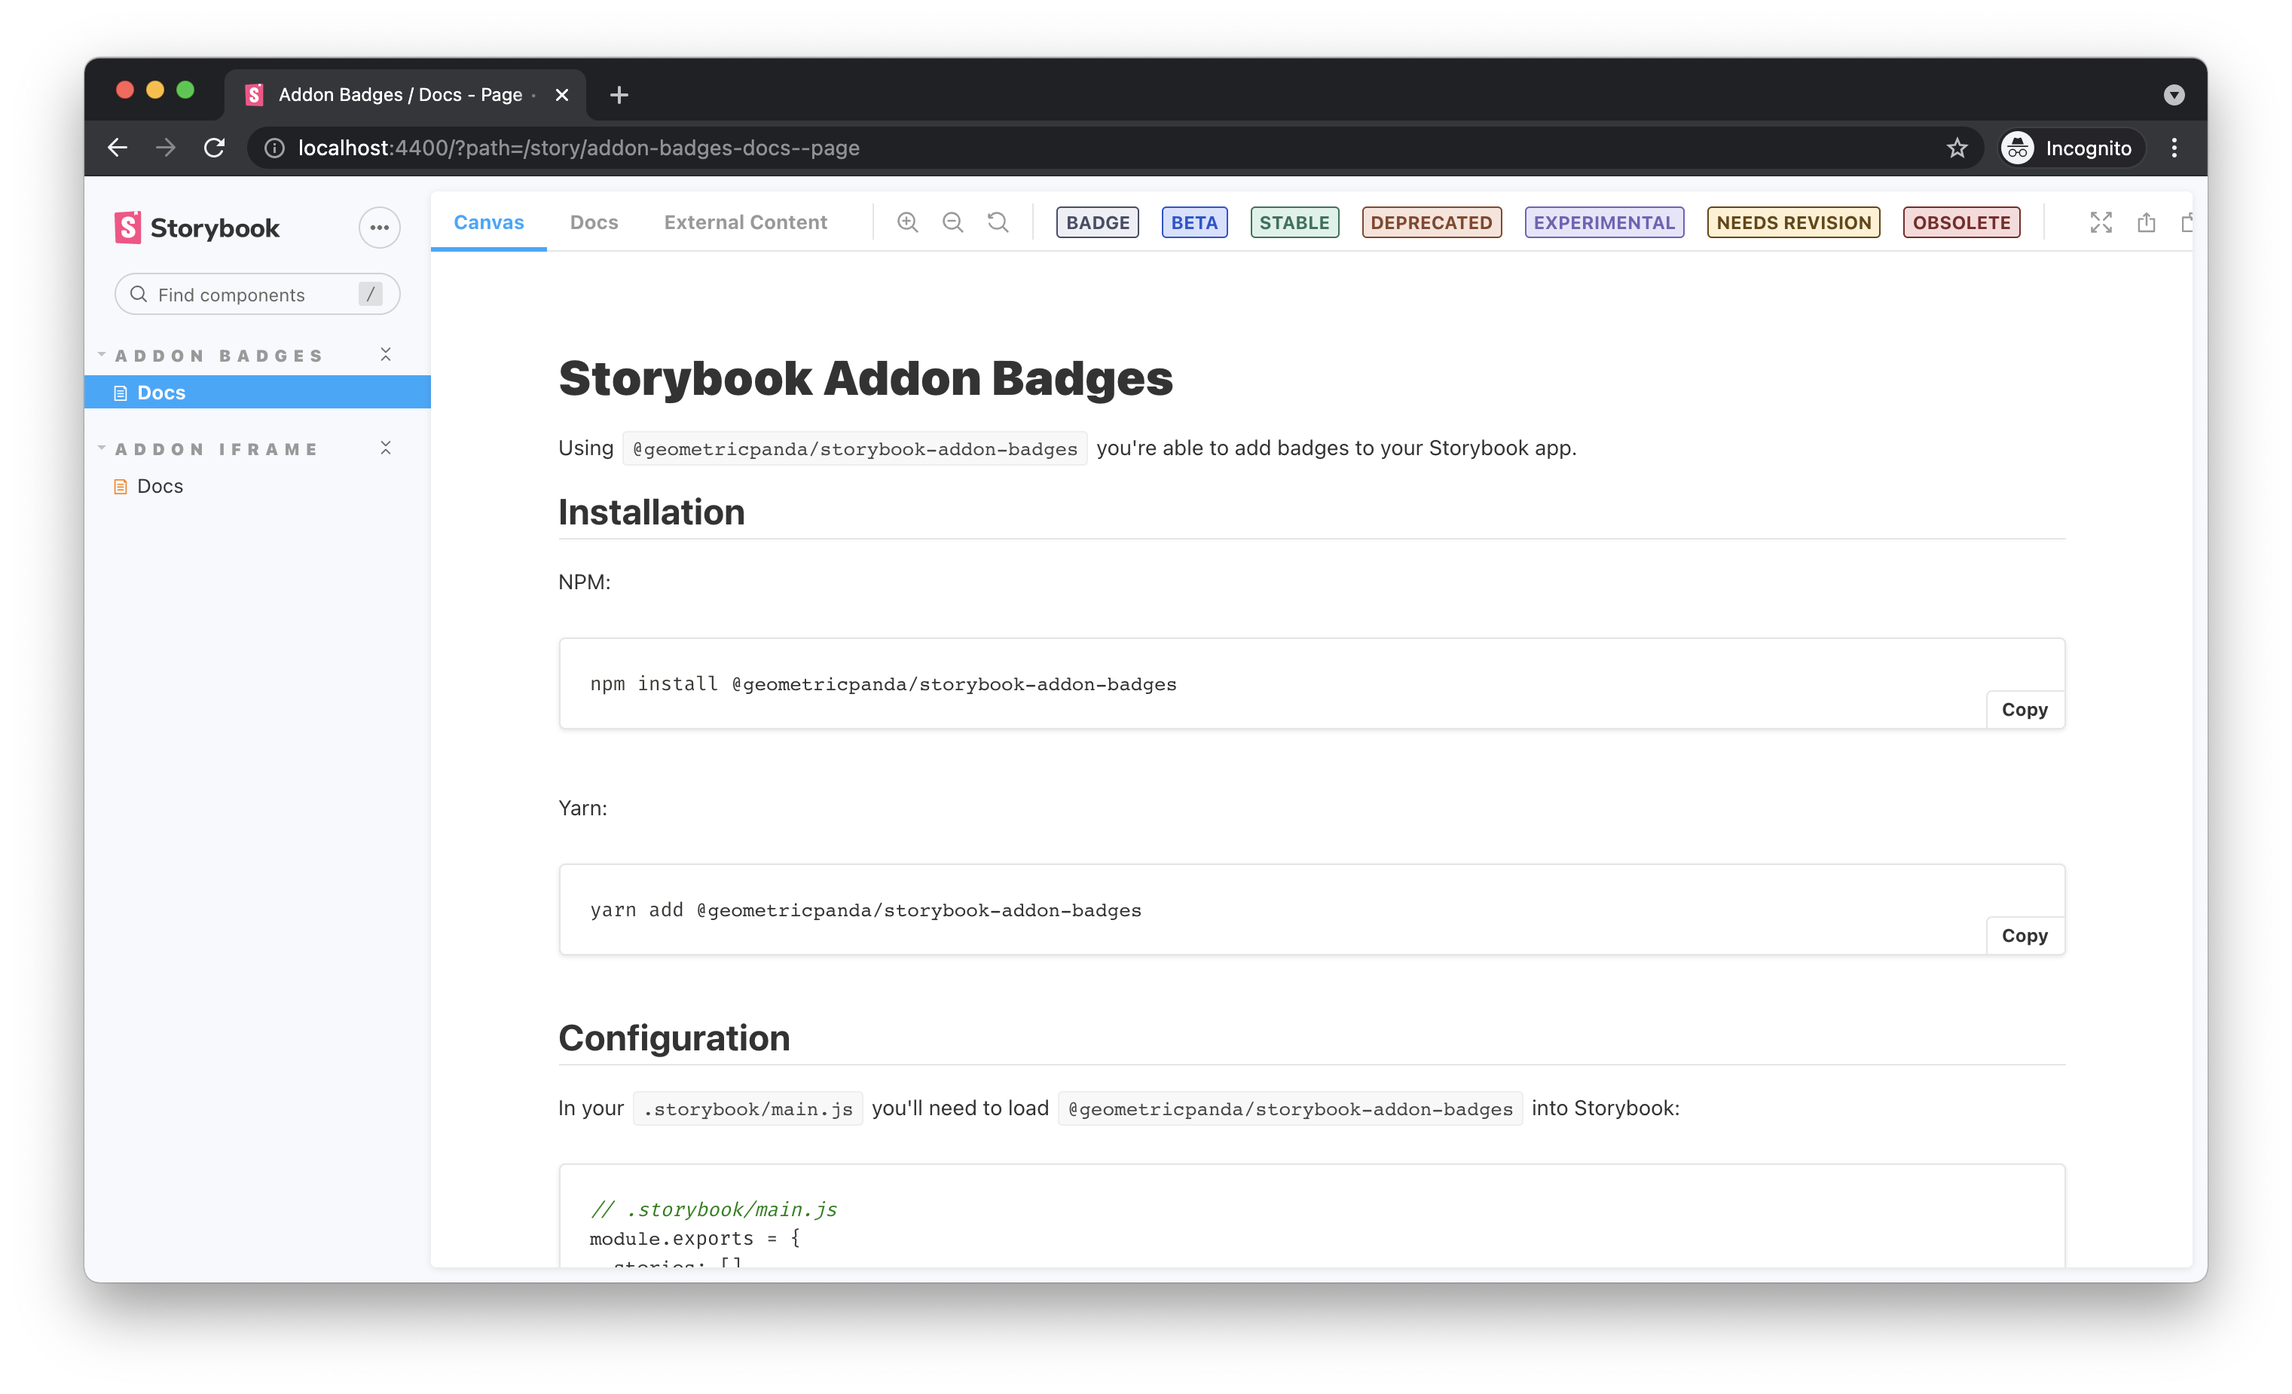
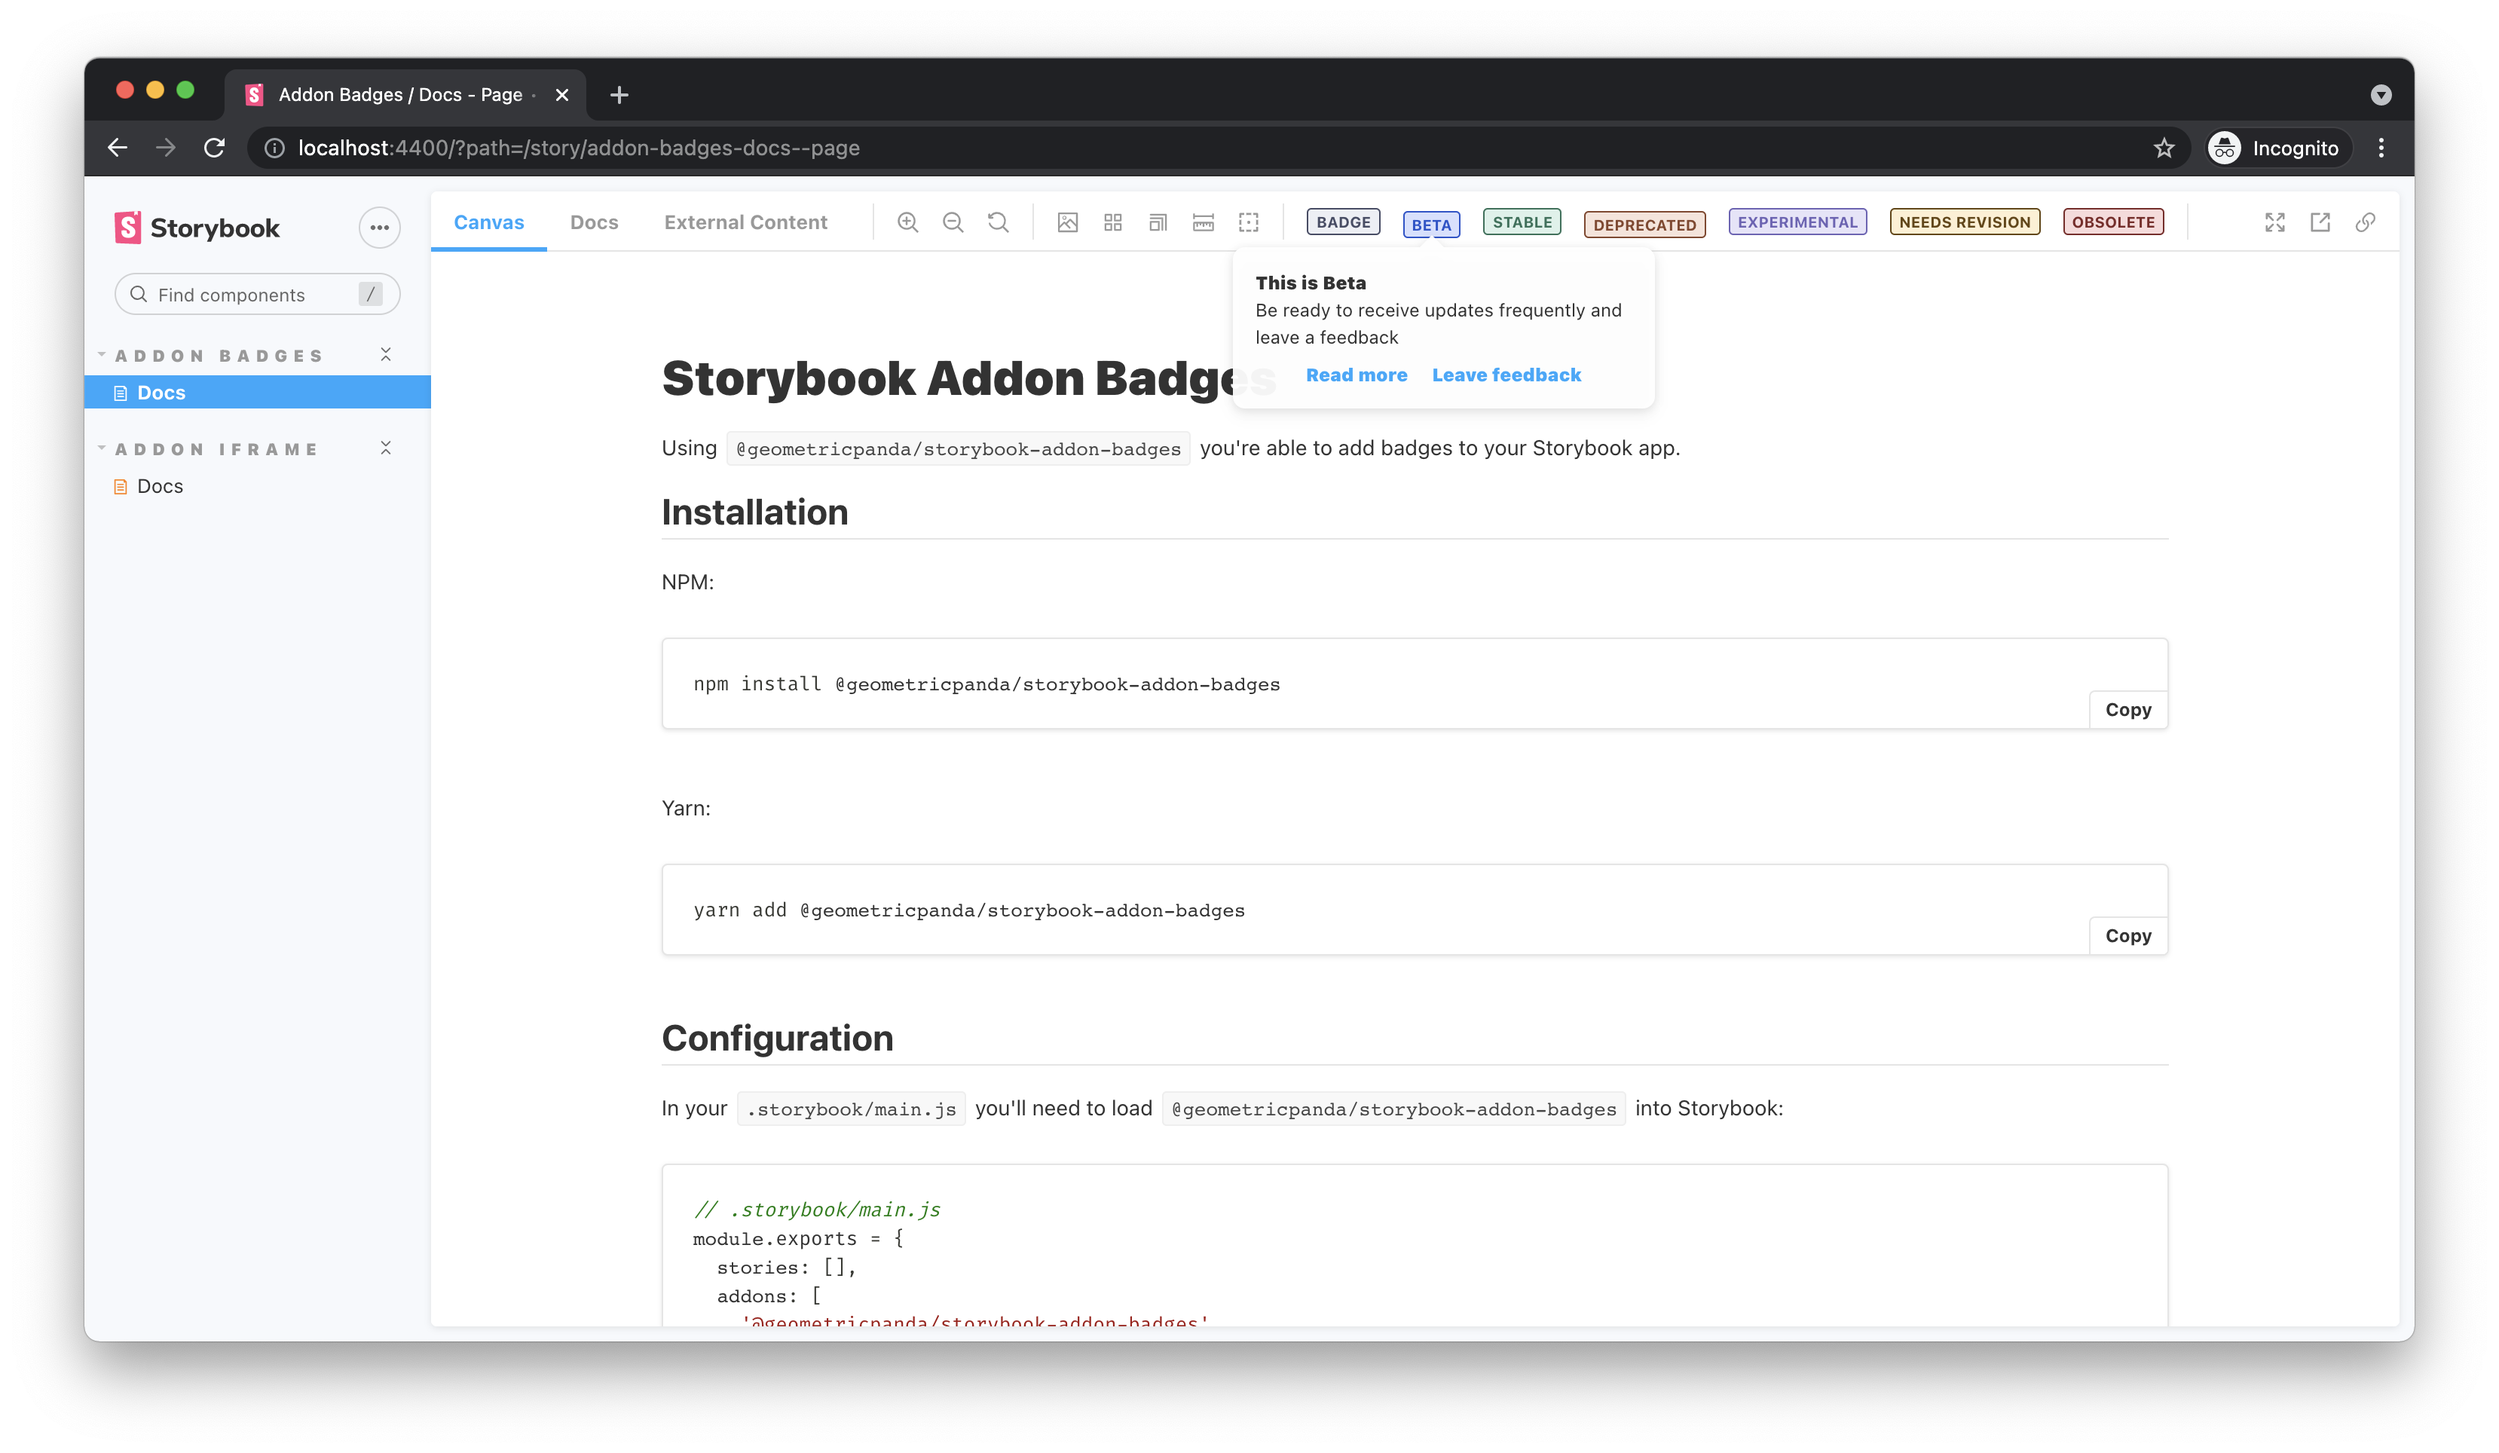
docs(badges): updates documentation for release

diff --git a/apps/geometricpanda/.storybook/preview.ts b/apps/geometricpanda/.storybook/preview.ts
@@ -1,0 +1,21 @@
+import { addParameters } from '@storybook/react';
+import { BADGE, defaultBadgesConfig } from '@geometricpanda/storybook-addon-badges';
+
+addParameters({
+  badgesConfig: {
+    [BADGE.BETA]: {
+      ...defaultBadgesConfig[BADGE.BETA],
+      tooltip: {
+        title: 'This is Beta',
+        desc: 'Be ready to receive updates frequently and leave a feedback',
+        links: [
+          {title: 'Read more', href: 'http://path/to/your/docs'},
+          {title: 'Leave feedback', onClick: () => {alert('thanks for the feedback')}}]
+      }
+    },
+    [BADGE.DEPRECATED]: {
+      ...defaultBadgesConfig[BADGE.DEPRECATED],
+      tooltip: 'This component is deprecated, please avoid using it.'
+    }
+  }
+});

diff --git a/CHANGELOG.md b/CHANGELOG.md
@@ -2,6 +2,11 @@
 All notable changes to this project will be documented in this file
 and this project adheres to [Semantic Versioning](https://semver.org/spec/v2.0.0.html).
 
+## 0.1.0
+- __@geometricpanda/storybook-addon-badges__: Integrates with Storybook tooltips.
+
+Thanks to [clbagrat](https://github.com/clbagrat).
+
 ## 0.0.5
 - __@geometricpanda/storybook-addon-badges__: Adds `react-is` to dependencies. Resolving [#23](https://github.com/geometricpanda/geometricpanda/issues/23)
 - __@geometricpanda/storybook-addon-badges__: Adds `react-dom` to dependencies. Resolving [#24](https://github.com/geometricpanda/geometricpanda/issues/24)

diff --git a/libs/storybook-addon-badges/README.md b/libs/storybook-addon-badges/README.md
@@ -56,6 +56,8 @@ addParameters({
 });
 ```
 
+### Tooltips
+
 Optionally, you can define more complex tooltips for any of your badges.
 
 ```js
@@ -73,7 +75,7 @@ addParameters({
     },
     deprecated: {
       ...deprecatedConfig,
-      tooltip: 'This component is depricated, pleave avoid using it.'
+      tooltip: 'This component is deprecated, please avoid using it.'
     }
   }
 });
